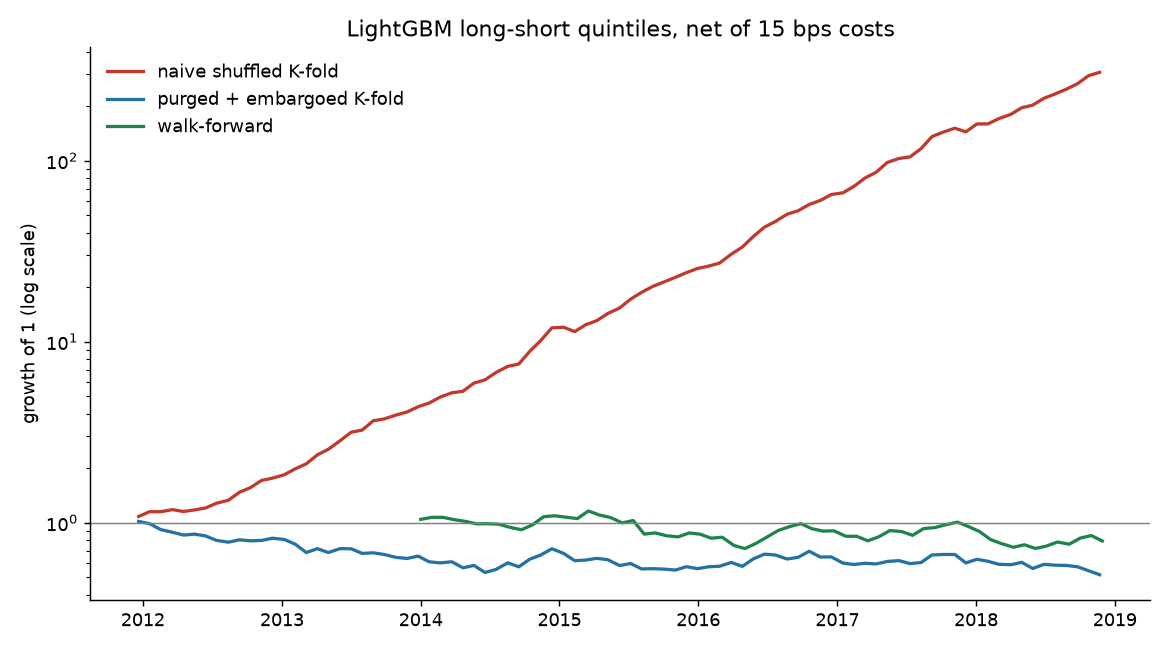
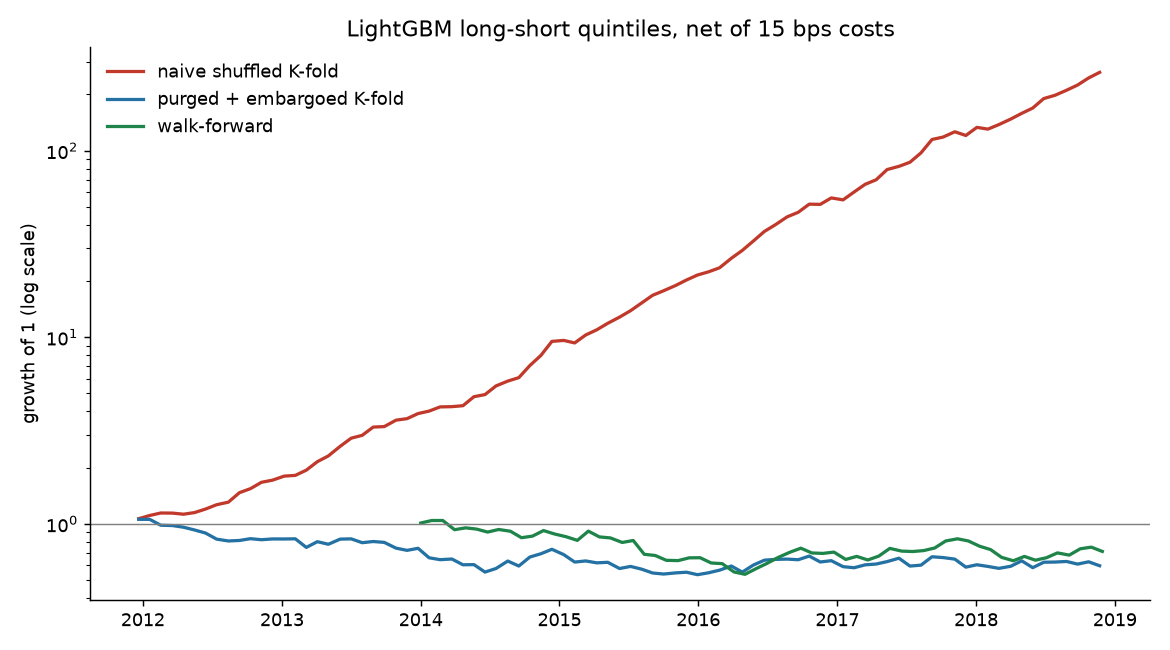
Update results from experiment run 38274040156

diff --git a/results/data_report.md b/results/data_report.md
@@ -1,15 +1,15 @@
 # Data report
 
-- Raw rows: 352,586; after cleaning: 352,169 (417 duplicate, zero-volume or bad-price rows removed)
-- Stocks with data: 95 of 98
-- Missing from Yahoo: LTIM, PFC, TATAMOTORS
+- Raw rows: 363,373; after cleaning: 362,943 (430 duplicate, zero-volume or bad-price rows removed)
+- Stocks with data: 98 of 98
+- Missing from Yahoo: none
 - Date range: 2010-01-04 to 2026-09-30
 
 ## Stocks with data, by year
 
 |        |   2010 |   2011 |   2012 |   2013 |   2014 |   2015 |   2016 |   2017 |   2018 |   2019 |   2020 |   2021 |   2022 |   2023 |   2024 |   2025 |   2026 |
 |:-------|-------:|-------:|-------:|-------:|-------:|-------:|-------:|-------:|-------:|-------:|-------:|-------:|-------:|-------:|-------:|-------:|-------:|
-| stocks |     78 |     78 |     78 |     78 |     78 |     80 |     82 |     86 |     88 |     88 |     88 |     91 |     92 |     93 |     95 |     95 |     95 |
+| stocks |     80 |     80 |     80 |     80 |     80 |     82 |     85 |     89 |     91 |     91 |     91 |     94 |     95 |     96 |     98 |     98 |     98 |
 
 ## Late listings (first date after 2011)
 
@@ -17,6 +17,7 @@
 |:-----------|:--------------------|:--------------------|-------:|
 | ADANIENSOL | 2015-07-31 00:00:00 | 2026-09-30 00:00:00 |   2754 |
 | INDIGO     | 2015-11-10 00:00:00 | 2026-09-30 00:00:00 |   2687 |
+| LTIM       | 2016-07-21 00:00:00 | 2026-09-30 00:00:00 |   2514 |
 | ICICIPRULI | 2016-09-29 00:00:00 | 2026-09-30 00:00:00 |   2470 |
 | VBL        | 2016-11-08 00:00:00 | 2026-09-30 00:00:00 |   2445 |
 | DMART      | 2017-03-21 00:00:00 | 2026-09-30 00:00:00 |   2354 |
@@ -33,15 +34,31 @@
 | HYUNDAI    | 2024-10-22 00:00:00 | 2026-09-30 00:00:00 |    480 |
 | SWIGGY     | 2024-11-13 00:00:00 | 2026-09-30 00:00:00 |    464 |
 
-## One-day moves larger than 35% in adjusted close (5)
+## One-day moves larger than 35% in adjusted close (6)
 
 `ret` is the adjusted return, `raw_ret` the unadjusted one. A big `raw_ret` with an
 equally big `ret` on a known split/bonus date means Yahoo failed to adjust.
 
-| ticker     | date                |   close |   adj_close |    ret |   raw_ret |
-|:-----------|:--------------------|--------:|------------:|-------:|----------:|
-| ADANIENT   | 2015-06-03 00:00:00 |  59.803 |      56.319 | -0.387 |    -0.387 |
-| CANBK      | 2017-10-25 00:00:00 |  87.980 |      74.463 |  0.387 |     0.387 |
-| INDUSINDBK | 2020-03-26 00:00:00 | 435.900 |     420.270 |  0.447 |     0.447 |
-| PNB        | 2017-10-25 00:00:00 | 202.050 |     182.175 |  0.462 |     0.462 |
-| VEDL       | 2026-04-30 00:00:00 | 271.550 |     271.550 | -0.649 |    -0.649 |
+| ticker     | date       |   close |   adj_close |    ret |   raw_ret | status                                                                           |
+|:-----------|:-----------|--------:|------------:|-------:|----------:|:---------------------------------------------------------------------------------|
+| ADANIENT   | 2015-06-03 |  59.803 |      56.319 | -0.387 |    -0.387 | fixed: demerger of Adani Transmission (2015)                                     |
+| CANBK      | 2017-10-25 |  87.980 |      74.463 |  0.387 |     0.387 | kept, real: government's public-sector bank recapitalisation plan                |
+| INDUSINDBK | 2020-03-26 | 435.900 |     420.270 |  0.447 |     0.447 | kept, real: rebound after the COVID crash                                        |
+| PNB        | 2017-10-25 | 202.050 |     182.175 |  0.462 |     0.462 | kept, real: government's public-sector bank recapitalisation plan                |
+| TATAMOTORS | 2025-10-14 | 395.450 |     392.197 | -0.402 |    -0.402 | NOT REVIEWED                                                                     |
+| VEDL       | 2026-04-30 | 271.550 |     271.550 | -0.649 |    -0.649 | fixed: demerger of Vedanta's businesses (inferred from the -65% unadjusted drop) |
+
+Unreviewed jumps: 1
+
+## Survivorship check
+
+Annual growth of an equal-weight portfolio of *today's* Nifty 100 stocks against the
+actual Nifty 100 index over the same dates. Part of the gap is equal weighting and
+dividends (the index here is price-only, about 1-1.5% a year), and the rest is
+survivorship bias: the stock list already knows which companies would succeed.
+
+| series                                            |   annual_growth |
+|:--------------------------------------------------|----------------:|
+| equal-weight, today's constituents (total return) |           0.192 |
+| NIFTY100 index (price only)                       |           0.091 |
+| NIFTY50 index (price only)                        |           0.086 |

diff --git a/results/placebo/summary.md b/results/placebo/summary.md
@@ -1,8 +1,8 @@
 | validation   | model    |   mean_ic |   ic_tstat |   long_short_gross_sharpe |   long_short_net_sharpe |   long_short_net_ann_return |   long_short_max_dd |   long_short_turnover |   long_only_net_sharpe |   equal_weight_sharpe |
 |:-------------|:---------|----------:|-----------:|--------------------------:|------------------------:|----------------------------:|--------------------:|----------------------:|-----------------------:|----------------------:|
-| naive_kfold  | ridge    |     0.042 |      2.625 |                     1.387 |                   1.043 |                       0.129 |              -0.142 |                 2.334 |                  0.885 |                 0.532 |
-| naive_kfold  | lightgbm |     0.272 |     16.779 |                     5.808 |                   5.478 |                       1.204 |              -0.054 |                 2.715 |                  3.705 |                 0.532 |
-| purged_kfold | ridge    |    -0.002 |     -0.102 |                     0.241 |                  -0.030 |                      -0.017 |              -0.361 |                 2.381 |                  0.206 |                 0.532 |
-| purged_kfold | lightgbm |    -0.006 |     -0.326 |                    -0.170 |                  -0.466 |                      -0.087 |              -0.492 |                 2.738 |                 -0.053 |                 0.532 |
-| walk_forward | ridge    |     0.037 |      2.182 |                     0.746 |                   0.471 |                       0.060 |              -0.158 |                 2.225 |                  0.398 |                 0.729 |
-| walk_forward | lightgbm |     0.001 |      0.064 |                     0.102 |                  -0.141 |                      -0.044 |              -0.380 |                 2.578 |                  0.734 |                 0.729 |
+| naive_kfold  | ridge    |     0.043 |      2.649 |                     1.296 |                   0.954 |                       0.118 |              -0.162 |                 2.349 |                  0.869 |                 0.532 |
+| naive_kfold  | lightgbm |     0.270 |     16.727 |                     5.375 |                   5.050 |                       1.156 |              -0.045 |                 2.767 |                  3.719 |                 0.532 |
+| purged_kfold | ridge    |    -0.002 |     -0.113 |                     0.217 |                  -0.055 |                      -0.021 |              -0.373 |                 2.392 |                  0.093 |                 0.532 |
+| purged_kfold | lightgbm |    -0.007 |     -0.387 |                    -0.041 |                  -0.321 |                      -0.069 |              -0.495 |                 2.724 |                 -0.143 |                 0.532 |
+| walk_forward | ridge    |     0.038 |      2.253 |                     0.734 |                   0.456 |                       0.057 |              -0.166 |                 2.217 |                  0.328 |                 0.729 |
+| walk_forward | lightgbm |    -0.001 |     -0.046 |                    -0.003 |                  -0.238 |                      -0.064 |              -0.485 |                 2.566 |                  0.441 |                 0.729 |

diff --git a/results/summary.md b/results/summary.md
@@ -1,8 +1,8 @@
 | validation   | model    |   mean_ic |   ic_tstat |   long_short_gross_sharpe |   long_short_net_sharpe |   long_short_net_ann_return |   long_short_max_dd |   long_short_turnover |   long_only_net_sharpe |   equal_weight_sharpe |
 |:-------------|:---------|----------:|-----------:|--------------------------:|------------------------:|----------------------------:|--------------------:|----------------------:|-----------------------:|----------------------:|
-| naive_kfold  | ridge    |     0.068 |      5.600 |                     1.579 |                   1.372 |                       0.191 |              -0.145 |                 1.532 |                  1.503 |                 1.068 |
-| naive_kfold  | lightgbm |     0.172 |     16.404 |                     3.880 |                   3.576 |                       0.541 |              -0.061 |                 2.108 |                  2.124 |                 1.068 |
-| purged_kfold | ridge    |     0.048 |      3.969 |                     1.300 |                   1.074 |                       0.140 |              -0.226 |                 1.636 |                  1.447 |                 1.068 |
-| purged_kfold | lightgbm |     0.041 |      3.910 |                     0.967 |                   0.664 |                       0.079 |              -0.248 |                 2.130 |                  1.365 |                 1.068 |
-| walk_forward | ridge    |     0.046 |      3.567 |                     1.224 |                   0.998 |                       0.134 |              -0.216 |                 1.712 |                  1.415 |                 1.085 |
-| walk_forward | lightgbm |     0.037 |      3.271 |                     0.935 |                   0.611 |                       0.068 |              -0.183 |                 2.139 |                  1.251 |                 1.085 |
+| naive_kfold  | ridge    |     0.069 |      5.856 |                     1.504 |                   1.308 |                       0.183 |              -0.192 |                 1.477 |                  1.504 |                 1.061 |
+| naive_kfold  | lightgbm |     0.171 |     16.739 |                     4.143 |                   3.835 |                       0.578 |              -0.064 |                 2.120 |                  2.130 |                 1.061 |
+| purged_kfold | ridge    |     0.047 |      3.977 |                     1.117 |                   0.911 |                       0.121 |              -0.190 |                 1.553 |                  1.392 |                 1.061 |
+| purged_kfold | lightgbm |     0.041 |      3.709 |                     0.870 |                   0.588 |                       0.072 |              -0.262 |                 2.084 |                  1.345 |                 1.061 |
+| walk_forward | ridge    |     0.048 |      3.709 |                     1.304 |                   1.085 |                       0.149 |              -0.227 |                 1.681 |                  1.458 |                 1.081 |
+| walk_forward | lightgbm |     0.031 |      2.804 |                     0.786 |                   0.464 |                       0.049 |              -0.201 |                 2.124 |                  1.266 |                 1.081 |

diff --git a/results/ic_by_year.md b/results/ic_by_year.md
@@ -1,14 +1,14 @@
 |   year |   mean_ic |   rebalances |   long_short_net_return |
 |-------:|----------:|-------------:|------------------------:|
-|   2015 |     0.099 |           12 |                   0.154 |
-|   2016 |    -0.020 |           12 |                  -0.096 |
-|   2017 |     0.015 |           12 |                  -0.022 |
-|   2018 |     0.048 |           11 |                  -0.004 |
-|   2019 |     0.071 |           12 |                   0.091 |
-|   2020 |    -0.005 |           12 |                   0.018 |
-|   2021 |     0.099 |           12 |                   0.365 |
-|   2022 |    -0.013 |           12 |                  -0.046 |
-|   2023 |     0.089 |           11 |                   0.257 |
-|   2024 |     0.011 |           12 |                   0.070 |
-|   2025 |     0.006 |           11 |                  -0.062 |
-|   2026 |     0.052 |            8 |                   0.138 |
+|   2015 |     0.113 |           12 |                   0.190 |
+|   2016 |    -0.031 |           12 |                  -0.138 |
+|   2017 |     0.017 |           12 |                  -0.003 |
+|   2018 |     0.047 |           11 |                  -0.043 |
+|   2019 |     0.052 |           12 |                   0.102 |
+|   2020 |     0.003 |           12 |                  -0.020 |
+|   2021 |     0.073 |           12 |                   0.225 |
+|   2022 |    -0.005 |           12 |                  -0.077 |
+|   2023 |     0.086 |           11 |                   0.290 |
+|   2024 |    -0.017 |           12 |                   0.005 |
+|   2025 |     0.007 |           11 |                   0.035 |
+|   2026 |     0.033 |            8 |                   0.081 |

diff --git a/results/feature_importance.md b/results/feature_importance.md
@@ -1,17 +1,17 @@
 |                |   gain_share |
 |:---------------|-------------:|
-| log_dollar_vol |        0.180 |
-| mom_12_1       |        0.113 |
-| vol_63d        |        0.102 |
+| log_dollar_vol |        0.188 |
+| mom_12_1       |        0.112 |
+| vol_63d        |        0.109 |
 | dist_52w_high  |        0.079 |
-| mom_126d       |        0.075 |
-| hl_range_21d   |        0.066 |
+| mom_126d       |        0.071 |
 | ma_200_ratio   |        0.065 |
-| mom_63d        |        0.060 |
-| vol_ratio      |        0.058 |
-| vol_21d        |        0.051 |
-| ma_50_ratio    |        0.048 |
-| volume_surge   |        0.034 |
-| ret_21d        |        0.032 |
-| rev_5d         |        0.019 |
+| hl_range_21d   |        0.064 |
+| mom_63d        |        0.056 |
+| vol_ratio      |        0.054 |
+| vol_21d        |        0.050 |
+| ma_50_ratio    |        0.047 |
+| ret_21d        |        0.035 |
+| volume_surge   |        0.032 |
+| rev_5d         |        0.018 |
 | rsi_14         |        0.018 |

diff --git a/results/placebo/feature_importance.md b/results/placebo/feature_importance.md
@@ -1,17 +1,17 @@
 |                |   gain_share |
 |:---------------|-------------:|
-| log_dollar_vol |        0.155 |
-| mom_12_1       |        0.115 |
-| dist_52w_high  |        0.088 |
-| vol_63d        |        0.087 |
-| mom_126d       |        0.087 |
-| mom_63d        |        0.084 |
-| hl_range_21d   |        0.071 |
-| ma_200_ratio   |        0.065 |
+| log_dollar_vol |        0.154 |
+| mom_12_1       |        0.113 |
+| dist_52w_high  |        0.089 |
+| mom_126d       |        0.088 |
+| vol_63d        |        0.086 |
+| mom_63d        |        0.085 |
+| hl_range_21d   |        0.073 |
+| ma_200_ratio   |        0.066 |
 | vol_ratio      |        0.054 |
 | vol_21d        |        0.050 |
-| ma_50_ratio    |        0.048 |
-| ret_21d        |        0.041 |
+| ma_50_ratio    |        0.047 |
+| ret_21d        |        0.042 |
 | rsi_14         |        0.026 |
-| volume_surge   |        0.017 |
-| rev_5d         |        0.014 |
+| volume_surge   |        0.016 |
+| rev_5d         |        0.013 |

diff --git a/results/cost_sensitivity.md b/results/cost_sensitivity.md
@@ -1,5 +1,5 @@
 |   cost_bps |   long_short_net_sharpe |   long_short_net_ann_return |   long_only_net_sharpe |   long_only_net_ann_return |
 |-----------:|------------------------:|----------------------------:|-----------------------:|---------------------------:|
-|      0.000 |                   0.935 |                       0.109 |                  1.342 |                      0.288 |
-|     15.000 |                   0.611 |                       0.068 |                  1.251 |                      0.265 |
-|     30.000 |                   0.287 |                       0.027 |                  1.160 |                      0.242 |
+|      0.000 |                   0.786 |                       0.090 |                  1.357 |                      0.283 |
+|     15.000 |                   0.464 |                       0.049 |                  1.266 |                      0.260 |
+|     30.000 |                   0.143 |                       0.010 |                  1.175 |                      0.238 |

diff --git a/results/placebo/cost_sensitivity.md b/results/placebo/cost_sensitivity.md
@@ -1,5 +1,5 @@
 |   cost_bps |   long_short_net_sharpe |   long_short_net_ann_return |   long_only_net_sharpe |   long_only_net_ann_return |
 |-----------:|------------------------:|----------------------------:|-----------------------:|---------------------------:|
-|      0.000 |                   0.102 |                       0.001 |                  0.926 |                      0.110 |
-|     15.000 |                  -0.141 |                      -0.044 |                  0.734 |                      0.085 |
-|     30.000 |                  -0.382 |                      -0.088 |                  0.542 |                      0.060 |
+|      0.000 |                  -0.003 |                      -0.019 |                  0.637 |                      0.071 |
+|     15.000 |                  -0.238 |                      -0.064 |                  0.441 |                      0.047 |
+|     30.000 |                  -0.473 |                      -0.106 |                  0.248 |                      0.023 |

diff --git a/results/placebo/ic_by_year.md b/results/placebo/ic_by_year.md
@@ -1,7 +1,7 @@
 |   year |   mean_ic |   rebalances |   long_short_net_return |
 |-------:|----------:|-------------:|------------------------:|
-|   2014 |     0.031 |           13 |                   0.092 |
-|   2015 |    -0.034 |           12 |                  -0.196 |
-|   2016 |     0.011 |           13 |                   0.028 |
-|   2017 |     0.017 |           12 |                   0.056 |
-|   2018 |    -0.020 |           12 |                  -0.168 |
+|   2014 |     0.027 |           13 |                  -0.118 |
+|   2015 |    -0.039 |           12 |                  -0.255 |
+|   2016 |     0.012 |           13 |                   0.073 |
+|   2017 |     0.024 |           12 |                   0.147 |
+|   2018 |    -0.033 |           12 |                  -0.121 |
